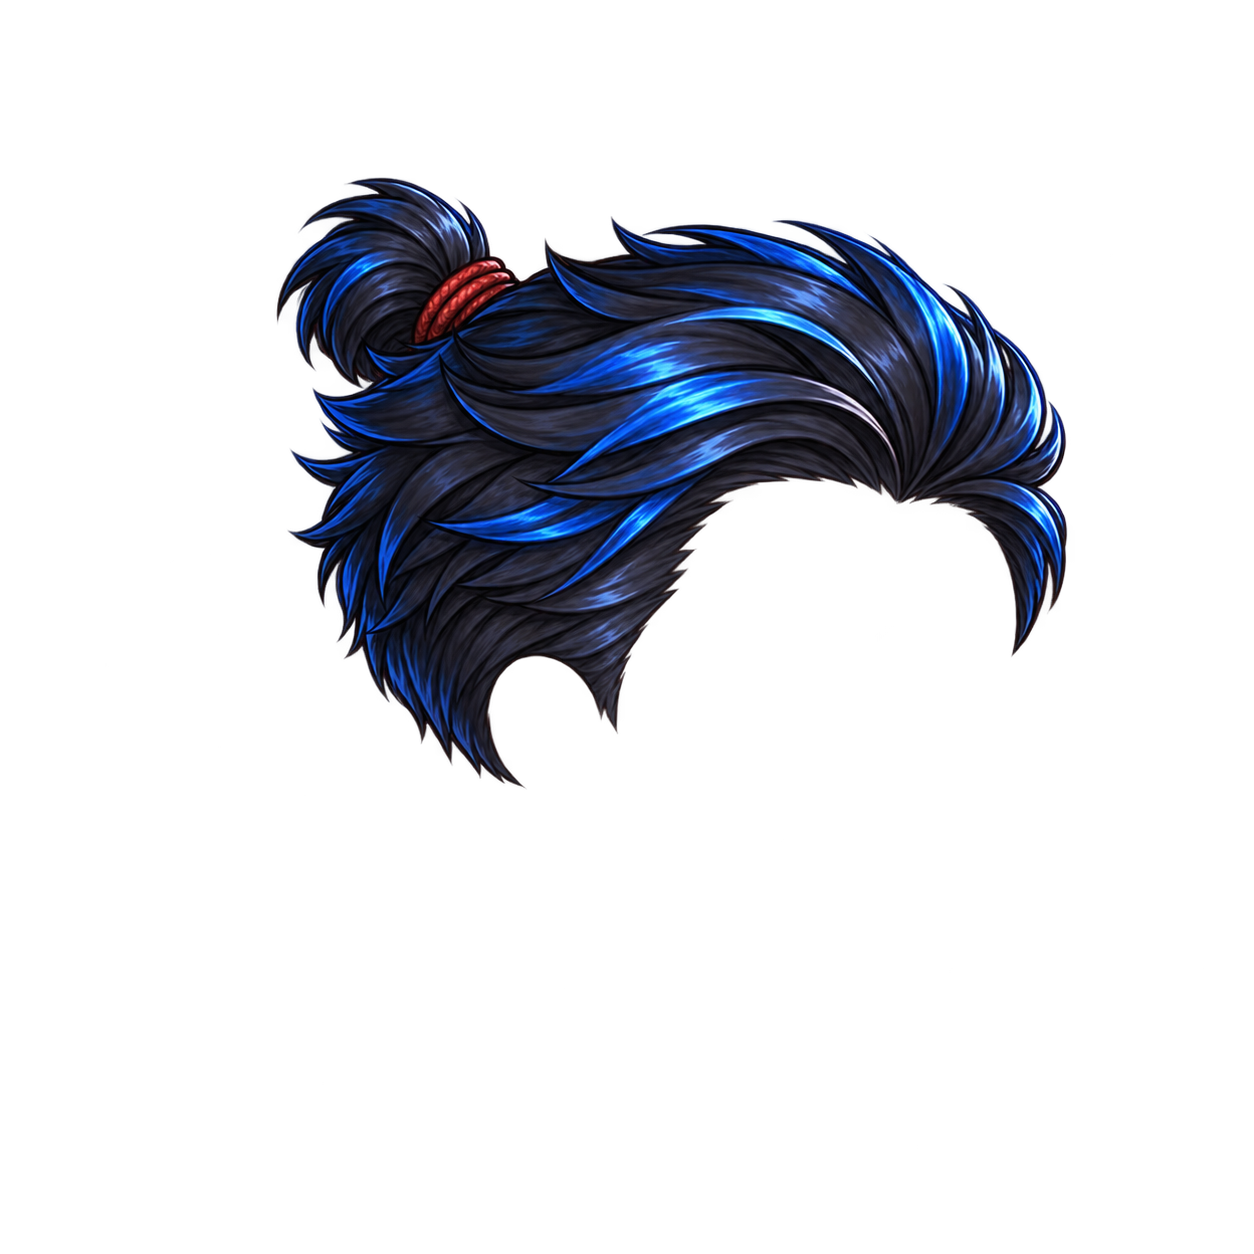
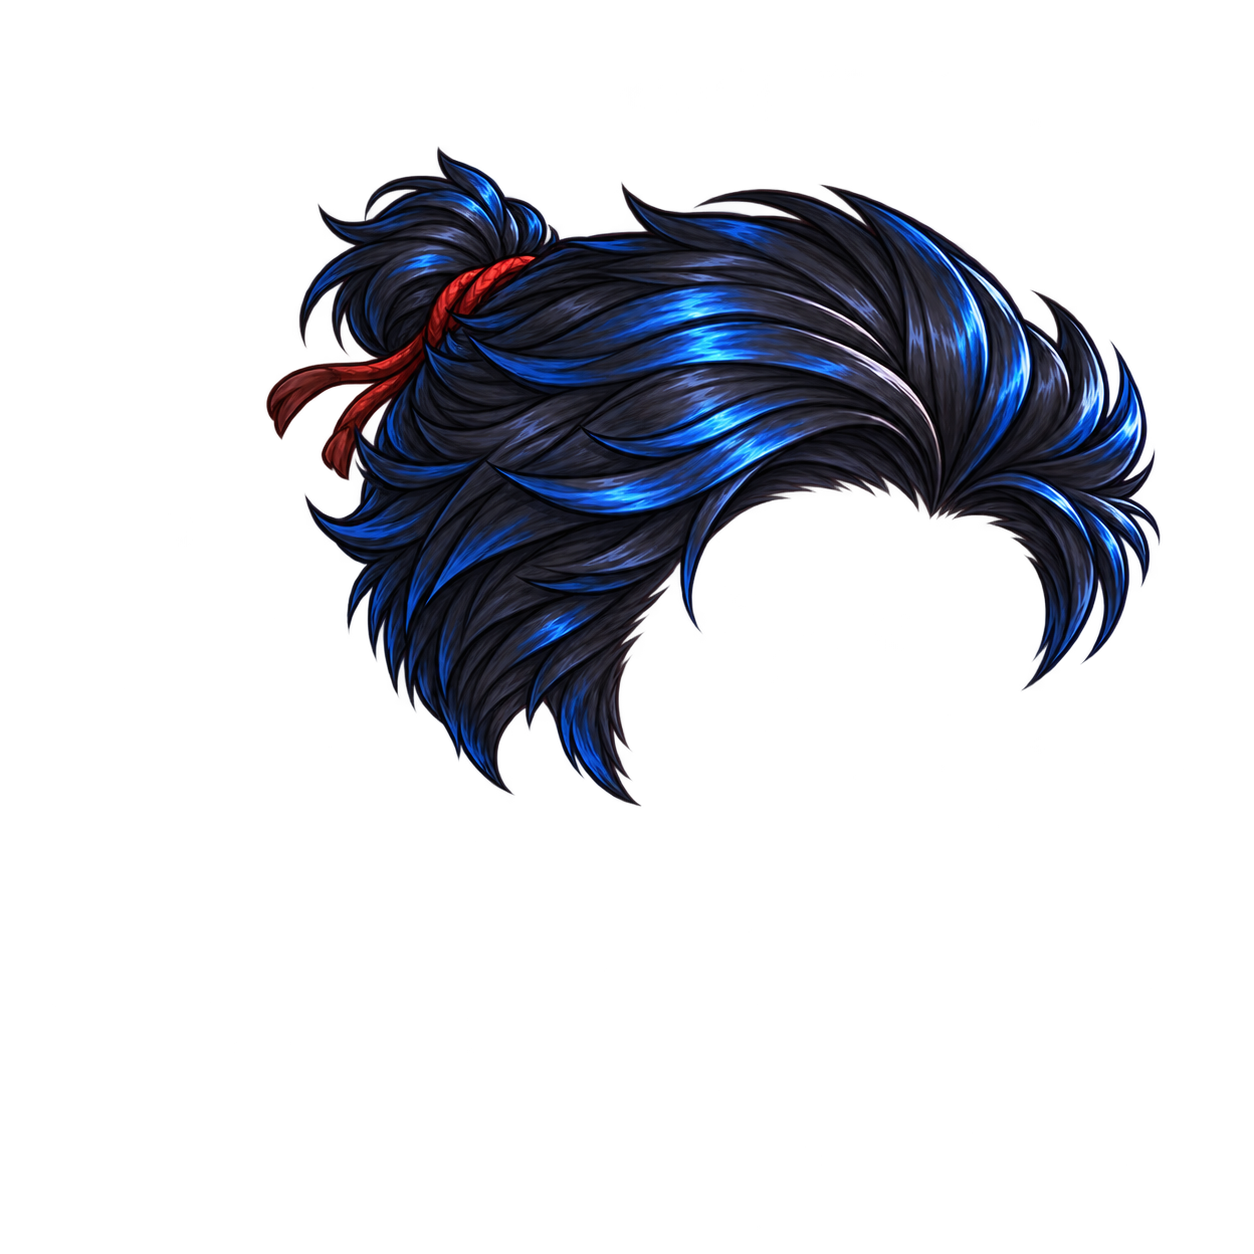
Validator measures hair at the ear and hats on the forehead; fixes it found
- EAR_CONTACT: short hair must touch the top of the ear, have a sideburn in front of
  it and not hang past the skull behind it; HAT_SEAT_GAP: no forehead between a hat's
  lower edge and the hat seat. New ears.png close-up sheet; unit tests.
- Fixes: Degradê Trançado regenerated (nape hugs the skull, sideburn), Coque do Errante
  refitted, Boné Aba Reta and Quepe Escarlate lowered onto the head; Cabelo Ondulado
  reclassed as hair-long. Prompt generator asks for the same three ear rules.

Changed region(s): [[0.1866, 0.1244, 0.933, 0.6531]]

diff --git a/src/game/rig/manifest.ts b/src/game/rig/manifest.ts
@@ -39,7 +39,7 @@ const hat=(source:Rect,from:readonly [Point,Point],clip?:readonly Point[]):ArtRe
 
 /** Every visible hair, hat and glasses item. New items are added here, never as ad-hoc numbers in the renderer. */
 export const COSMETIC_MANIFEST:Readonly<Record<string,CosmeticManifest>>={
- 'hair-wavy':{rig:RIG_VERSION,slot:'hair',fit:'hair-short',worn:region('/assets/hair-wavy.png',[280,65,820,760],[349.9,100,600,556]),covered:region(COVERED,[850,48,585,470],[330,160,526.5,423])},
+ 'hair-wavy':{rig:RIG_VERSION,slot:'hair',fit:'hair-long',worn:region('/assets/hair-wavy.png',[280,65,820,760],[349.9,100,600,556]),covered:region(COVERED,[850,48,585,470],[330,160,526.5,423])},
  'hair-undercut':{rig:RIG_VERSION,slot:'hair',fit:'hair-short',
   worn:region(ACCESSORIES,[25,85,610,500],shrink([288,2.3,666.2,548.6],.9),[[25,85],[635,85],[635,375],[600,450],[600,585],[25,585]]),
   covered:region(COVERED,[190,535,520,410],[365,185,468,369])},
@@ -47,8 +47,8 @@ export const COSMETIC_MANIFEST:Readonly<Record<string,CosmeticManifest>>={
   worn:region(ACCESSORIES,[600,85,650,660],shrink([217.4,2.3,728.9,736.7],.9),[[640,85],[1250,85],[1250,745],[600,745],[600,450],[640,375]]),
   covered:region(COVERED,[835,535,620,475],[295,175,558,427.5])},
  'hair-captain':{rig:RIG_VERSION,slot:'hair',fit:'hair-short',worn:region('/assets/hair-captain.png',[214,58,956,677],[334,57,602,426])},
- 'hair-hiphop':{rig:RIG_VERSION,slot:'hair',fit:'hair-short',worn:region('/assets/hair-hiphop.png',[172,133,1044,771],[334,59,576,425])},
- 'hair-swordsman':{rig:RIG_VERSION,slot:'hair',fit:'hair-short',worn:region('/assets/hair-swordsman.png',[276,177,791,612],[334,61,546,422])},
+ 'hair-hiphop':{rig:RIG_VERSION,slot:'hair',fit:'hair-short',worn:region('/assets/hair-hiphop.png',[179,190,1064,858],[339,60,532,429])},
+ 'hair-swordsman':{rig:RIG_VERSION,slot:'hair',fit:'hair-short',worn:region('/assets/hair-swordsman.png',[266,146,894,661],[338,62,584,432])},
  'hair-horizon':{rig:RIG_VERSION,slot:'hair',fit:'hair-short',worn:region('/assets/hair-horizon.png',[270,49,753,593],shrink([288,25.8,674,533],.9,[760,250])),covered:region('/assets/hair-horizon.png',[312,739,698,472],[345,195,500,338])},
  'hat-cap':{rig:RIG_VERSION,slot:'hat',fit:'hat-tight',profile:'tight',worn:hat([35,130,522,332],[[126,442],[485,330]])},
  'hat-thunder':{rig:RIG_VERSION,slot:'hat',fit:'hat-tight',profile:'tight',worn:hat([560,130,490,320],[[600,423],[960,333]],[[560,130],[1050,130],[1050,398],[1020,430],[1020,450],[560,450]])},
@@ -56,8 +56,8 @@ export const COSMETIC_MANIFEST:Readonly<Record<string,CosmeticManifest>>={
  'hat-ruby':{rig:RIG_VERSION,slot:'hat',fit:'hat-tight',profile:'tight',worn:hat([45,560,485,330],[[150,830],[465,760]])},
  'hat-tropical':{rig:RIG_VERSION,slot:'hat',fit:'hat-wide',profile:'wide',worn:hat([540,560,510,335],[[650,817],[925,742]],[[540,560],[1030,560],[1030,690],[1050,695],[1050,775],[1020,790],[1020,895],[540,895]])},
  'hat-mage':{rig:RIG_VERSION,slot:'hat',fit:'hat-wide',profile:'wide',worn:hat([1035,480,495,410],[[1140,822],[1420,803]],[[1035,480],[1530,480],[1530,890],[1035,890],[1035,810],[1090,790],[1090,680],[1035,680]])},
- 'hat-captain':{rig:RIG_VERSION,slot:'hat',fit:'hat-tight',profile:'tight',worn:{atlas:'/assets/hat-captain.png',source:[140,300,995,605],pin:{from:[[310,868],[1030,790]],to:HEAD_ANCHORS.hatSeat}}},
- 'hat-hiphop':{rig:RIG_VERSION,slot:'hat',fit:'hat-tight',profile:'tight',worn:{atlas:'/assets/hat-hiphop.png',source:[126,296,1073,623],pin:{from:[[250,900],[960,745]],to:HEAD_ANCHORS.hatSeat}}},
+ 'hat-captain':{rig:RIG_VERSION,slot:'hat',fit:'hat-tight',profile:'tight',worn:{atlas:'/assets/hat-captain.png',source:[140,300,995,605],pin:{from:[[310,852],[1030,774]],to:HEAD_ANCHORS.hatSeat}}},
+ 'hat-hiphop':{rig:RIG_VERSION,slot:'hat',fit:'hat-tight',profile:'tight',worn:{atlas:'/assets/hat-hiphop.png',source:[126,296,1073,623],pin:{from:[[250,872],[960,756]],to:HEAD_ANCHORS.hatSeat}}},
  'hat-swordsman':{rig:RIG_VERSION,slot:'hat',fit:'hat-wide',profile:'wide',worn:{atlas:'/assets/hat-swordsman.png',source:[96,324,1081,632],pin:{from:[[330,840],[980,720]],to:HEAD_ANCHORS.hatSeat}}},
  // Optical centres of each lens land on the universal eye sockets.
  'glasses-sport':{rig:RIG_VERSION,slot:'glasses',fit:'glasses',worn:{atlas:ACCESSORIES,source:[45,880,570,235],pin:{from:[[344,1014],[557,1042]],to:[HEAD_ANCHORS.nearEye,HEAD_ANCHORS.farEye]}}},

diff --git a/src/game/rig/fit.ts b/src/game/rig/fit.ts
@@ -1,11 +1,11 @@
-import {FACE_KEEPOUT,FIT_ZONES,FRAME_MARGIN,HEAD_ANCHORS,HEAD_WIDTH,BODY_PROPORTIONS,COMBAT_SHEET,PRONE_PROPORTIONS,WALK_SHEET} from './anchors';
+import {FACE_KEEPOUT,FIT_ZONES,FRAME_MARGIN,HEAD_ANCHORS,HEAD_WIDTH,BODY_PROPORTIONS,EAR_CONTACT,EAR_FRONT,HAT_SEAT_GAP,COMBAT_SHEET,PRONE_PROPORTIONS,WALK_SHEET} from './anchors';
 import type {FitClass} from './anchors';
 import {COSMETIC_MANIFEST} from './manifest';
 
 /** Alpha coverage in template space: pixel (x,y) is template (x-originX, y-originY). */
 export interface FitMask {width:number;height:number;originX:number;originY:number;data:Uint8Array;}
 export interface Bounds {x:number;y:number;width:number;height:number;area:number;}
-export interface FitIssue {code:'width'|'height'|'bottom'|'top'|'frame'|'keepout'|'hidden'|'proportion'|'unregistered'|'anchor'|'missing'|'cut'|'ground'|'bob';message:string;measured:number;limit:number;}
+export interface FitIssue {code:'width'|'height'|'bottom'|'top'|'frame'|'keepout'|'hidden'|'proportion'|'unregistered'|'anchor'|'missing'|'cut'|'ground'|'bob'|'ear'|'seat';message:string;measured:number;limit:number;}
 export interface FitReport {id:string;fit?:FitClass;bounds:Bounds|null;widthRatio:number;issues:FitIssue[];}
 
 export function maskFromAlpha(rgba:Uint8ClampedArray,width:number,height:number,originX:number,originY:number,threshold=40):FitMask{
@@ -110,4 +110,26 @@ export function evaluateCombatSheet(id:string,frames:readonly SheetFrame[]|null,
  });
  if(drift>COMBAT_SHEET.headDrift)issues.push({code:'anchor',message:`Cabeça a ${fmt(drift)} un. do lugar do contrato`,measured:fmt(drift),limit:COMBAT_SHEET.headDrift});
  return {id,bounds:null,widthRatio:fmt(drift),issues};
+}
+
+const at=(mask:FitMask,x:number,y:number)=>{const px=Math.round(x)+mask.originX,py=Math.round(y)+mask.originY;return px>=0&&py>=0&&px<mask.width&&py<mask.height&&mask.data[py*mask.width+px]===1;};
+/** Short hair meets the ear like the approved Corte Tempestade: it touches the upper ear outline and comes
+ * down in front of the ear as a sideburn. `hair` is the hairstyle alone, `head` the universal head alone. */
+export function evaluateEarContact(hair:FitMask,head:FitMask):FitIssue[]{
+ const issues:FitIssue[]=[],{earGap,misses,sideburn,sideburnBox:[bx,by,bw,bh],earTopBelow}=EAR_CONTACT;
+ const gaps=EAR_FRONT.filter(([,y])=>y<earTopBelow).map(([x,y])=>{let best=Infinity;for(let dy=-30;dy<=30;dy++)for(let dx=-30;dx<=30;dx++)if(at(hair,x+dx,y+dy))best=Math.min(best,Math.hypot(dx,dy));return best;}).sort((a,b)=>b-a);
+ const gap=gaps[misses]??0;
+ if(gap>earGap)issues.push({code:'ear',message:`Cabelo não encosta na orelha: ${Number.isFinite(gap)?`${Math.round(gap)}px`:'longe'} de pele entre o cabelo e a orelha`,measured:Number.isFinite(gap)?Math.round(gap):99,limit:earGap});
+ let skin=0,covered=0;for(let y=by;y<by+bh;y++)for(let x=bx;x<bx+bw;x++)if(at(head,x,y)){skin++;if(at(hair,x,y))covered++;}
+ const share=skin?covered/skin:0;
+ if(share<sideburn)issues.push({code:'ear',message:`Costeleta curta: cabelo cobre ${Math.round(share*100)}% da frente da orelha; mínimo ${Math.round(sideburn*100)}%`,measured:fmt(share),limit:sideburn});
+ const [sx,sy,sw,sh]=EAR_CONTACT.spillBox;let spill=0;for(let y=sy;y<sy+sh;y++)for(let x=sx;x<sx+sw;x++)if(at(hair,x,y)&&!at(head,x,y))spill++;
+ if(spill>EAR_CONTACT.spill)issues.push({code:'ear',message:`Cabelo passa da orelha: ${spill}px fora da cabeça atrás e abaixo da orelha`,measured:spill,limit:EAR_CONTACT.spill});
+ return issues;
+}
+/** A hat sits down on the skull: along the hat seat, the hat's lower edge never leaves forehead showing above the seat. */
+export function evaluateHatSeat(hat:FitMask):FitIssue|null{
+ const [[x0,y0],[x1,y1]]=HEAD_ANCHORS.hatSeat;let worst=0;
+ for(let x=Math.ceil(x0);x<=x1;x+=2){const seat=y0+(y1-y0)*(x-x0)/(x1-x0);let bottom=-Infinity;for(let y=Math.round(seat+120);y>=0;y--)if(at(hat,x,y)){bottom=y;break;}worst=Math.max(worst,seat-bottom);}
+ return worst>HAT_SEAT_GAP?{code:'seat',message:`Chapéu flutua: ${Number.isFinite(worst)?Math.round(worst):'∞'}px de testa entre o chapéu e o assento`,measured:Number.isFinite(worst)?Math.round(worst):999,limit:HAT_SEAT_GAP}:null;
 }

diff --git a/tests/cosmetic-fit.test.ts b/tests/cosmetic-fit.test.ts
@@ -3,7 +3,7 @@ import {test} from 'node:test';
 import {CATALOG,ITEMS} from '../shared/catalog';
 import {HEAD_ANCHORS,HEAD_WIDTH,RIG_VERSION} from '../src/game/rig/anchors';
 import {COSMETIC_MANIFEST} from '../src/game/rig/manifest';
-import {evaluateBody,evaluateCombatSheet,evaluateGlassesVisibility,evaluateItem,evaluatePin,evaluateProne,evaluateWalkSheet,keepoutPixels} from '../src/game/rig/fit';
+import {evaluateBody,evaluateCombatSheet,evaluateEarContact,evaluateGlassesVisibility,evaluateHatSeat,evaluateItem,evaluatePin,evaluateProne,evaluateWalkSheet,keepoutPixels} from '../src/game/rig/fit';
 import type {FitMask} from '../src/game/rig/fit';
 
 const SIZE=HEAD_ANCHORS.atlasSize;
@@ -76,4 +76,17 @@ test('lobby walk sheets and battle atlases are measured frame by frame',()=>{
  assert.deepEqual(evaluateCombatSheet('outfit-test',expected.map(head=>frame(head)),expected).issues,[]);
  const bad=evaluateCombatSheet('outfit-test',[...expected.slice(0,11).map(head=>frame(head)),frame([30,-30],{hands:false})],expected).issues.map(issue=>issue.code).sort();
  assert.deepEqual(bad,['anchor','missing']);
+});
+
+test('short hair must meet the ear and hats must sit on the skull',()=>{
+ const head=rect(380,180,460,450);
+ // Hair down to the ear with a sideburn in front of it.
+ assert.deepEqual(evaluateEarContact(rect(330,40,560,400),head),[]);
+ // Hair ending well above the ear: gap and no sideburn.
+ assert.deepEqual(evaluateEarContact(rect(330,40,560,330),head).map(issue=>issue.code),['ear','ear']);
+ // A nape hanging off the head behind and below the ear.
+ assert.ok(evaluateEarContact(rect(230,40,660,560),head).some(issue=>issue.message.includes('passa da orelha')));
+ const [[x0,y0],[x1]]=HEAD_ANCHORS.hatSeat;
+ assert.equal(evaluateHatSeat(rect(x0-20,0,x1-x0+40,y0+10)),null);
+ assert.equal(evaluateHatSeat(rect(x0-20,0,x1-x0+40,y0-40))?.code,'seat');
 });

diff --git a/src/game/rig/anchors.ts b/src/game/rig/anchors.ts
@@ -52,6 +52,12 @@ export interface FitZone {
  /** Painted pixels tolerated inside FACE_KEEPOUT (anti-aliasing). */
  keepoutTolerance:number|null;
 }
+/** How short hair meets the universal ear (19/10/2026, matheus: hair must "attach" to the ear like Corte Tempestade).
+ * The upper ear outline must touch hair (`earGap` px, one point may miss), and the sideburn box just in front of the
+ * ear must be covered by at least `sideburn` of hair. Measured on the approved Corte Tempestade (0 px, 49%). */
+export const EAR_CONTACT={earGap:8,misses:1,sideburn:.2,sideburnBox:[522,425,38,75] as const,earTopBelow:445,/** Short hair painted outside the skull below the ear top (a nape hanging off the head), px. */spill:900,spillBox:[200,440,360,260] as const} as const;
+/** Hats sit on the skull: along the hat seat no column may show forehead between the hat's lower edge and the seat. */
+export const HAT_SEAT_GAP=8;
 export const FIT_ZONES:Readonly<Record<FitClass,FitZone>>={
  'hair-short':{maxWidth:1.45,maxAboveCrown:.30,maxBottom:640,keepoutTolerance:60},
  'hair-long':{maxWidth:1.55,maxAboveCrown:.30,maxBottom:820,keepoutTolerance:60},

diff --git a/docs/cosmetics-fit.md b/docs/cosmetics-fit.md
@@ -47,6 +47,8 @@ npm run verify:cosmetics -- --strict # reprova se restar qualquer problema
 
 Inicia o Vite sozinho. `BROWSER_EXECUTABLE` aponta um Chromium específico; `OUTPUT_DIR` muda a pasta (padrão `test-results/cosmetics`). Gera `report.md`, `report.json`, `colors.png` (cada peça em 6 cores e o corpo em 6 tons de pele e de olho, ver `docs/color-tickets.md`), `zones.png` (cada peça com sua zona: verde dentro, vermelho fora), `matrix.png` (chapéu × cabelo com Óculos Sprint) e `prone.png` (cada roupa deitada parada, arrastando, carregando e arremessando).
 
+**Orelha e assento (19/10, pedido do matheus para errar menos):** todo cabelo curto (`hair-short`) é medido contra a orelha universal (`EAR_CONTACT` em `anchors.ts`): encostar no alto da orelha (no máximo 8 px de pele, um ponto pode falhar), ter costeleta na frente da orelha (≥20% da caixa) e não passar da orelha (≤900 px pintados fora da cabeça atrás e abaixo dela). Todo chapéu precisa assentar no crânio: ao longo do assento (`hatSeat`) nenhuma coluna mostra mais de 8 px de testa entre a borda do chapéu e o assento (`HAT_SEAT_GAP`). A prancha `ears.png` mostra cada cabelo na orelha e cada chapéu na testa, em vermelho o que reprova. Valores calibrados no Corte Tempestade (aprovado). O Cabelo Ondulado passou para `hair-long` (desce atrás da orelha de propósito).
+
 Toda roupa é medida onde o jogo a mostra (19/10, fluxo novo): em pé no lobby, na folha de andar pintada (`lobby.png`, cada roupa parada e nos 6 passos, nos dois lados) e nos 12 quadros pintados de batalha (`prone.png`). Roupa sem folha de andar ou sem quadros de combate é reprovada; o corpo deitado recortado antigo só é medido em roupas sem quadros pintados. `--only=id,id` limita o veredito (e o `--strict`) às peças sendo feitas, culpando cada combinação só pela peça que a causa: `npm run verify:cosmetics -- --strict --only=hair-x,hat-x`.
 
 Mede cada peça isolada, as 54 combinações chapéu × cabelo com cada óculos (cabelo sobre olhos/boca, frente dos óculos encoberta) e a proporção das roupas. Rostos continuam em `verify-faces.mjs`. A inspeção visual do usuário continua necessária: a ferramenta barra o que está fora da medida, não decide se a arte é bonita.

diff --git a/docs/street-and-swordsman-art.md b/docs/street-and-swordsman-art.md
@@ -12,3 +12,5 @@ Ajustes: lentes dos óculos neon a ~53% de opacidade (máscara pela envoltória 
 Validação: `npm run verify:cosmetics -- --strict --only=outfit-hiphop,hair-hiphop,hat-hiphop,glasses-hiphop,outfit-swordsman,hair-swordsman,hat-swordsman` sem problemas; `node scripts/preview-lobby-walk.mjs outfit-hiphop outfit-swordsman` com 10,6 passos/s e nenhum quadro sem corpo.
 
 Correção (19/10, pedido do matheus): Corte Capitão, Degradê Trançado e Coque do Errante terminavam acima da orelha e o chapéu de palha saiu visto de baixo. Os três cabelos e o chapéu foram refeitos pelo gerador com as regras novas (laterais até a orelha; chapéu vestido, visto de cima) e reencaixados.
+
+Segunda correção (19/10): o validador ganhou as medidas de orelha e de assento do chapéu e reprovou Degradê Trançado (passava da orelha, sem costeleta), Coque do Errante (sem costeleta), Boné Aba Reta e Quepe Escarlate (flutuavam acima da testa). O Degradê foi refeito duas vezes pelo Codex (nuca rente ao crânio, costeleta), o Coque reposicionado e os dois chapéus baixados. O Chapéu Astral (antigo) continua flutuando 21 px: a aba pintada cai na frente; precisa de arte nova.
